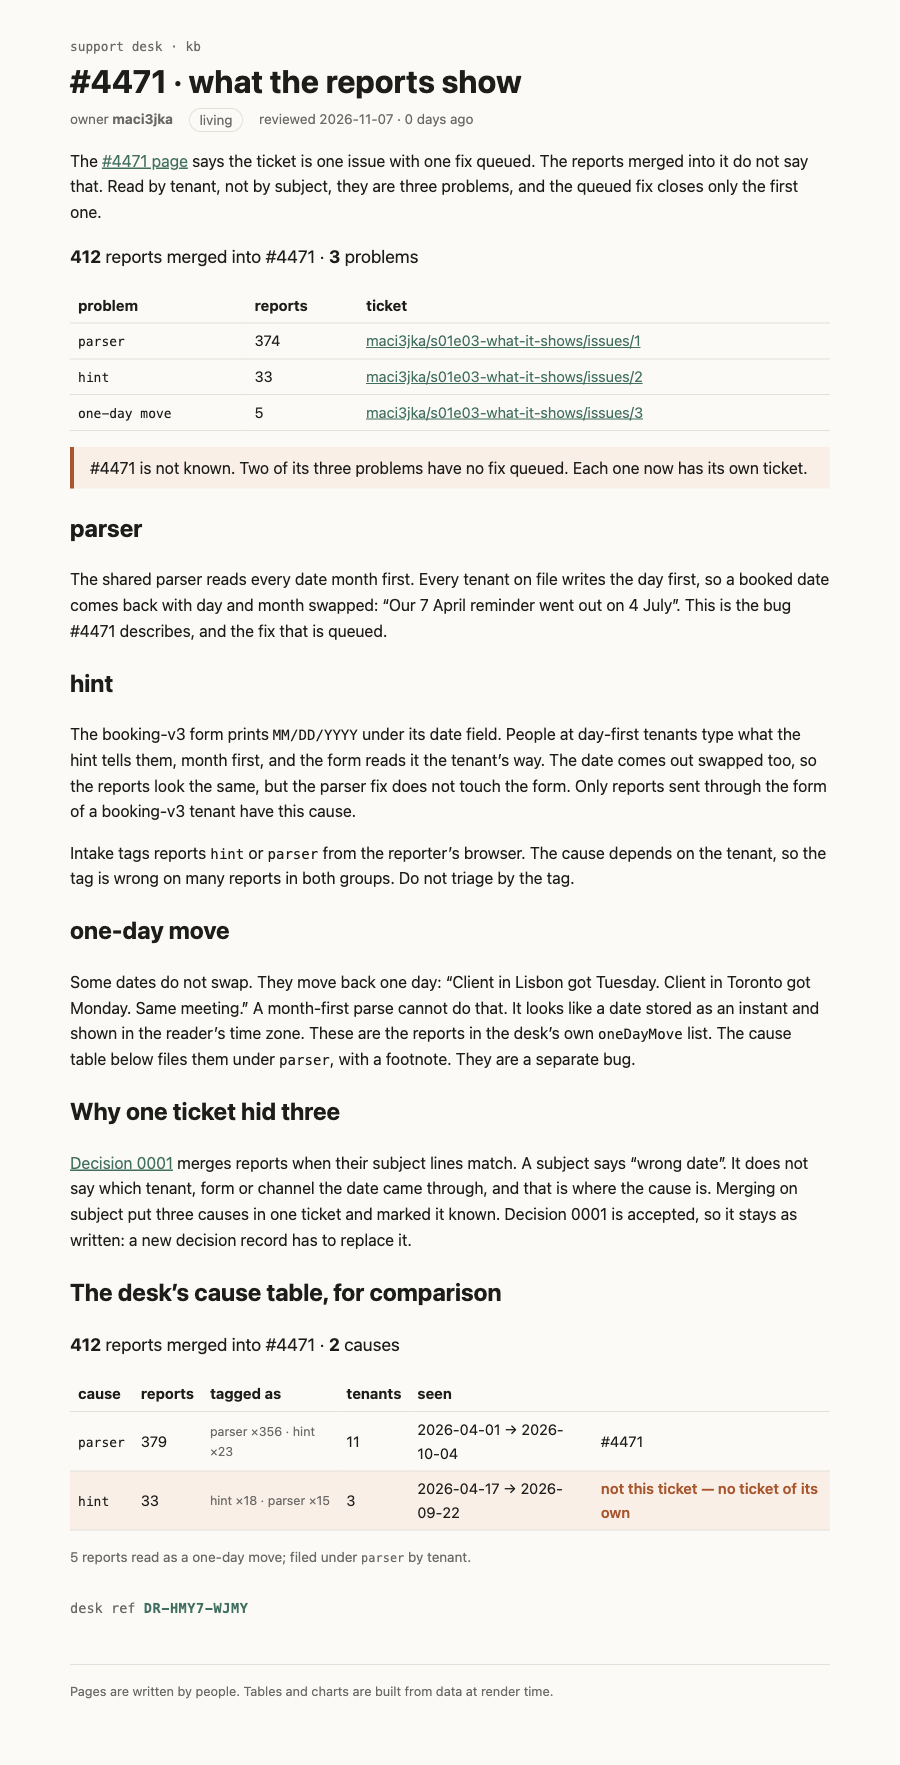
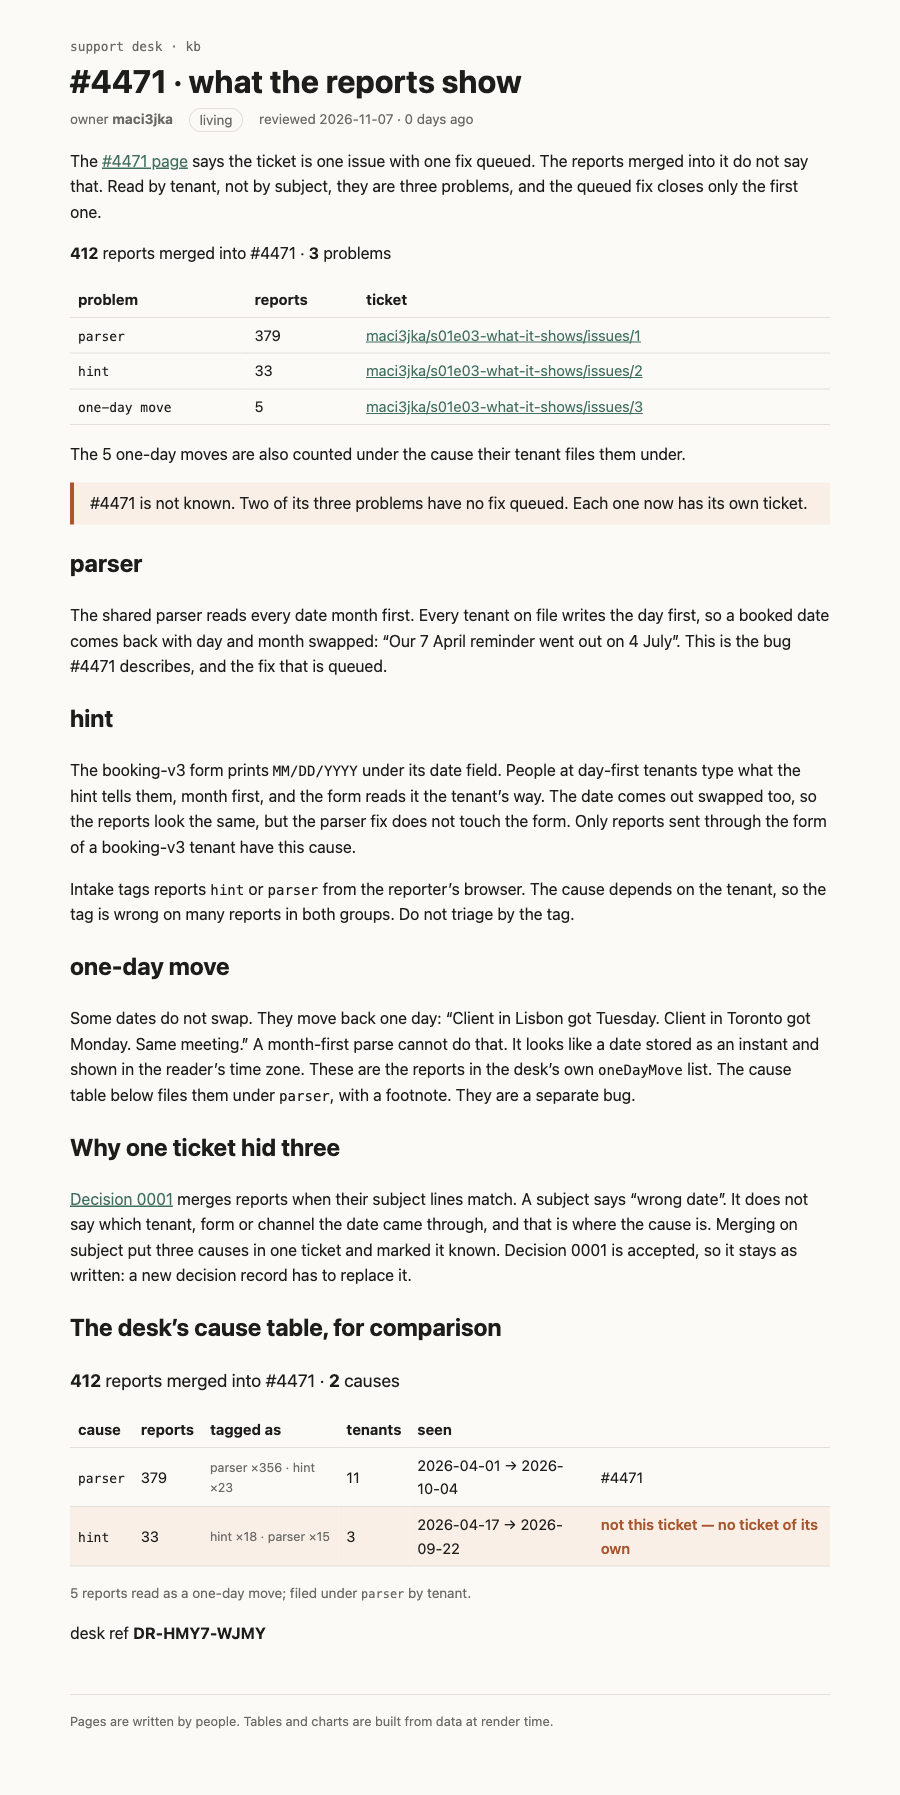
Count #4471 problems the desk's way: parser 379 includes the one-day moves

Changed region(s): [[0.0622, 0.0312, 0.9333, 0.966], [0.6533, 0.8102, 0.9022, 0.8725], [0.28, 0.9348, 0.3111, 0.966]]

diff --git a/rendered/4471-what-it-shows.html b/rendered/4471-what-it-shows.html
@@ -23,11 +23,11 @@
 </style>
 		<style>.sum.svelte-12oyimm{font-size:1.1rem}.tags.svelte-12oyimm,.note.svelte-12oyimm{color:var(--muted);font-size:.85em}.wrong.svelte-12oyimm td:where(.svelte-12oyimm){background:var(--warn-bg)}.wrong.svelte-12oyimm td:where(.svelte-12oyimm):last-child{color:var(--warn);font-weight:600}
 </style>
-		<style>.sum.svelte-h3x27m{font-size:1.1rem}.none.svelte-h3x27m{color:var(--warn);font-weight:600}.stamp.svelte-1280m42{margin:2rem 0 0;font:.85rem var(--mono);color:var(--muted)}.stamp.svelte-1280m42 b:where(.svelte-1280m42){color:var(--accent);letter-spacing:.04em}.missing.svelte-1280m42{color:var(--warn)}
+		<style>.sum.svelte-h3x27m{font-size:1.1rem}.none.svelte-h3x27m{color:var(--warn);font-weight:600}.note.svelte-h3x27m{color:var(--muted);font-size:.85em}.stamp.svelte-1280m42{margin:2rem 0 0;font:.85rem var(--mono);color:var(--muted)}.stamp.svelte-1280m42 b:where(.svelte-1280m42){color:var(--accent);letter-spacing:.04em}.missing.svelte-1280m42{color:var(--warn)}
 </style></head>
   <body><div style="display: contents"><!--[--><!--[0--><!--[--><!--[--><div class="kb svelte-e2jw2j"><header><a class="crumb svelte-e2jw2j" href="/kb">support desk · kb</a> <h1 class="svelte-e2jw2j">#4471 · what the reports show</h1> <p class="meta svelte-e2jw2j"><span>owner <b>maci3jka</b></span> <span class="status living svelte-e2jw2j">living</span> <span class="svelte-e2jw2j">reviewed 2026-11-07 · 0 days ago</span></p></header> <!--[-1--><!--]--> <main><p>The <a href="/kb/incidents/4471">#4471 page</a> says the ticket is one issue with one fix queued. The reports
 merged into it do not say that. Read by tenant, not by subject, they are three problems, and the
-queued fix closes only the first one.</p> <p class="sum svelte-h3x27m"><strong>412</strong> reports merged into #4471 · <strong>3</strong> problems</p> <table><thead><tr><th>problem</th><th>reports</th><th>ticket</th></tr></thead><tbody><!--[--><tr><td><code>parser</code></td><td>374</td><td><!--[0--><a href="https://github.com/maci3jka/s01e03-what-it-shows/issues/1">maci3jka/s01e03-what-it-shows/issues/1</a><!--]--></td></tr><tr><td><code>hint</code></td><td>33</td><td><!--[0--><a href="https://github.com/maci3jka/s01e03-what-it-shows/issues/2">maci3jka/s01e03-what-it-shows/issues/2</a><!--]--></td></tr><tr><td><code>one-day move</code></td><td>5</td><td><!--[0--><a href="https://github.com/maci3jka/s01e03-what-it-shows/issues/3">maci3jka/s01e03-what-it-shows/issues/3</a><!--]--></td></tr><!--]--></tbody></table><!----> <aside class="warn svelte-17bri61"><!---->#4471 is not known. Two of its three problems have no fix queued. Each one now has its own ticket.<!----></aside><!----> <h2>parser</h2> <p>The shared parser reads every date month first. Every tenant on file writes the day first, so a
+queued fix closes only the first one.</p> <p class="sum svelte-h3x27m"><strong>412</strong> reports merged into #4471 · <strong>3</strong> problems</p> <table><thead><tr><th>problem</th><th>reports</th><th>ticket</th></tr></thead><tbody><!--[--><tr><td><code>parser</code></td><td>379</td><td><!--[0--><a href="https://github.com/maci3jka/s01e03-what-it-shows/issues/1">maci3jka/s01e03-what-it-shows/issues/1</a><!--]--></td></tr><tr><td><code>hint</code></td><td>33</td><td><!--[0--><a href="https://github.com/maci3jka/s01e03-what-it-shows/issues/2">maci3jka/s01e03-what-it-shows/issues/2</a><!--]--></td></tr><tr><td><code>one-day move</code></td><td>5</td><td><!--[0--><a href="https://github.com/maci3jka/s01e03-what-it-shows/issues/3">maci3jka/s01e03-what-it-shows/issues/3</a><!--]--></td></tr><!--]--></tbody></table> <!--[0--><p class="note svelte-h3x27m">The 5 one-day moves are also counted under the cause their tenant files them under.</p><!--]--><!----> <aside class="warn svelte-17bri61"><!---->#4471 is not known. Two of its three problems have no fix queued. Each one now has its own ticket.<!----></aside><!----> <h2>parser</h2> <p>The shared parser reads every date month first. Every tenant on file writes the day first, so a
 booked date comes back with day and month swapped: “Our 7 April reminder went out on 4 July”. This
 is the bug #4471 describes, and the fix that is queued.</p> <h2>hint</h2> <p>The booking-v3 form prints <code>MM/DD/YYYY</code> under its date field. People at day-first tenants type
 what the hint tells them, month first, and the form reads it the tenant’s way. The date comes out

diff --git a/kb/src/lib/kb/ProblemSplit.svelte b/kb/src/lib/kb/ProblemSplit.svelte
@@ -4,18 +4,22 @@
   import { causeOf, uniqueById, type Report } from '#lib/kb/causes';
   import { tenantOf } from '#lib/kb/locales';
 
-  // One row per problem in a merged ticket. A report's problem is its cause (causes.ts), except the
-  // reports the desk noted as a one-day move: no month-first parse moves a date by one day.
+  // One row per problem in a merged ticket, counted the desk's way (as CauseTable does): each report
+  // under its cause (causes.ts), plus the reports the desk noted as a one-day move. Those stay counted
+  // under their cause too, so the rows overlap by that many.
   let { ticket, issues }: { ticket: number; issues: Record<string, string> } = $props();
 
   const merged = $derived(uniqueById(reports as Report[]).filter((r) => r.mergedInto === ticket));
-  const problemOf = (r: Report) =>
-    notes.oneDayMove.includes(r.id) ? 'one-day move' : (causeOf(r, tenantOf(r)) ?? 'unplaced');
-  const rows = $derived(
-    Object.entries(
-      merged.reduce<Record<string, number>>((n, r) => ({ ...n, [problemOf(r)]: (n[problemOf(r)] ?? 0) + 1 }), {}),
+  const moved = $derived(merged.filter((r) => notes.oneDayMove.includes(r.id)).length);
+  const rows = $derived([
+    ...Object.entries(
+      merged.reduce<Record<string, number>>((n, r) => {
+        const c = causeOf(r, tenantOf(r)) ?? 'unplaced';
+        return { ...n, [c]: (n[c] ?? 0) + 1 };
+      }, {}),
     ).sort((a, b) => b[1] - a[1]),
-  );
+    ...(moved ? [['one-day move', moved] as [string, number]] : []),
+  ]);
 </script>
 
 <p class="sum">
@@ -35,8 +39,12 @@
     {/each}
   </tbody>
 </table>
+{#if moved}
+  <p class="note">The {moved} one-day moves are also counted under the cause their tenant files them under.</p>
+{/if}
 
 <style>
   .sum { font-size: 1.1rem; }
   .none { color: var(--warn); font-weight: 600; }
+  .note { color: var(--muted); font-size: 0.85em; }
 </style>

diff --git a/README.md b/README.md
@@ -6,11 +6,11 @@ MEGA.dev S01E03. The support desk merged 412 date reports into ticket #4471 and 
 
 | issue | problem | reports |
 |---|---|---|
-| [#1](../../issues/1) | parser: dates read month first, day-first tenants get day and month swapped | 374 |
+| [#1](../../issues/1) | parser: dates read month first, day-first tenants get day and month swapped | 379 |
 | [#2](../../issues/2) | hint: booking-v3 form says `MM/DD/YYYY` to day-first tenants | 33 |
 | [#3](../../issues/3) | one-day move: dates shift back one day (time zone) | 5 |
 
-The counts are over unique report ids. The export holds 427 entries, and 15 of them are exact copies.
+The counts are over unique report ids, counted the desk's way (its CauseTable): the 5 one-day moves are also counted under parser. The export holds 427 entries, and 15 of them are exact copies.
 
 ## Page
 
